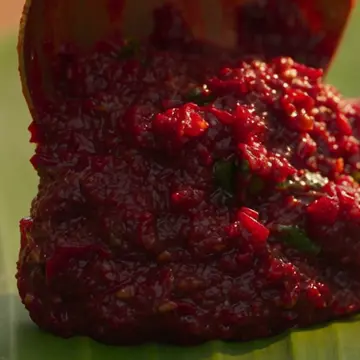
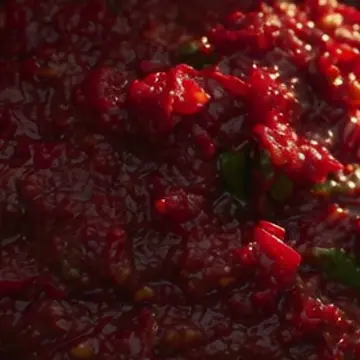
Remove banana leaf mentions; serve Build Your Bhojanam on a clay plate
Story step 3 becomes Bhojanam, headings/descriptions/alt text/meta no
longer mention the leaf, the leaf graphic is replaced with a clay
plate, and dish close-ups are cropped tighter.

Claude-Session: https://claude.ai/code/session_01HkawGkET8YDvbs46vsFSA1

diff --git a/src/components/Bhojanam.jsx b/src/components/Bhojanam.jsx
@@ -7,38 +7,25 @@ import { ArrowIcon } from './Icons';
 
 const steps = menu.bhojanam.steps.map((s) => ({ ...s, item: itemById[s.id] })).filter((s) => s.item);
 
-const LEAF = "M30 300 C 60 120, 240 52, 470 46 C 700 40, 900 70, 978 150 C 992 240, 990 330, 975 420 C 880 500, 690 522, 470 516 C 250 512, 70 470, 30 300 Z";
-
-function Leaf() {
+function Plate() {
   return (
-    <svg className="leaf-svg" viewBox="0 0 1000 560" aria-hidden="true" preserveAspectRatio="none">
+    <svg className="plate-svg" viewBox="0 0 600 600" aria-hidden="true">
       <defs>
-        <linearGradient id="leaf-g" x1="0" y1="0" x2="0" y2="1">
-          <stop offset="0" stopColor="oklch(0.6 0.15 140)" />
-          <stop offset="0.5" stopColor="oklch(0.52 0.14 142)" />
-          <stop offset="1" stopColor="oklch(0.46 0.12 145)" />
-        </linearGradient>
+        <radialGradient id="plate-rim" cx="0.45" cy="0.4" r="0.65">
+          <stop offset="0" stopColor="oklch(0.66 0.12 48)" />
+          <stop offset="1" stopColor="oklch(0.5 0.11 42)" />
+        </radialGradient>
+        <radialGradient id="plate-well" cx="0.45" cy="0.42" r="0.6">
+          <stop offset="0" stopColor="oklch(0.74 0.09 60)" />
+          <stop offset="1" stopColor="oklch(0.62 0.11 50)" />
+        </radialGradient>
       </defs>
-      <clipPath id="leaf-clip">
-        <path d={LEAF} />
-      </clipPath>
-      <path
-        d={LEAF}
-        fill="url(#leaf-g)"
-      />
-      <path d="M30 300 C 300 286, 650 282, 985 286" stroke="oklch(0.78 0.1 120)" strokeWidth="5" fill="none" strokeLinecap="round" />
-      <g stroke="oklch(0.6 0.12 138 / 0.55)" strokeWidth="1.4" fill="none" clipPath="url(#leaf-clip)">
-        {Array.from({ length: 26 }, (_, i) => {
-          const x = 80 + i * 35;
-          return (
-            <g key={i}>
-              <path d={`M${x} 290 C ${x + 20} 220, ${x + 40} 150, ${x + 52} ${70 + Math.abs(13 - i) * 2}`} />
-              <path d={`M${x} 292 C ${x + 20} 360, ${x + 40} 430, ${x + 52} ${500 - Math.abs(13 - i) * 2}`} />
-            </g>
-          );
-        })}
+      <circle cx="300" cy="300" r="292" fill="url(#plate-rim)" />
+      <circle cx="300" cy="300" r="250" fill="url(#plate-well)" />
+      <g fill="none" stroke="oklch(0.85 0.06 70 / 0.55)" strokeWidth="2" strokeLinecap="round">
+        <circle cx="300" cy="300" r="270" strokeDasharray="2 14" />
+        <circle cx="300" cy="300" r="250" />
       </g>
-      <path d="M978 150 C 960 160, 952 176, 960 196 L 975 186 Z" fill="var(--c-bg)" opacity="0.9" />
     </svg>
   );
 }
@@ -63,11 +50,11 @@ export default function Bhojanam() {
     const el = root.current;
     const q = gsap.utils.selector(el);
     if (prefersReducedMotion()) {
-      gsap.set(q('.leaf-dish, .bhojanam-cta'), { opacity: 1, scale: 1, y: 0 });
+      gsap.set(q('.plate-dish, .bhojanam-cta'), { opacity: 1, scale: 1, y: 0 });
       return;
     }
     const ctx = gsap.context(() => {
-      gsap.set(q('.leaf-dish'), { opacity: 0, y: -120, scale: 0.4, rotate: -25 });
+      gsap.set(q('.plate-dish'), { opacity: 0, y: -120, scale: 0.4, rotate: -25 });
       gsap.set(q('.bhojanam-cta'), { opacity: 0, y: 30 });
       const tl = gsap.timeline({
         scrollTrigger: {
@@ -75,16 +62,16 @@ export default function Bhojanam() {
           onUpdate: (self) => setActive(Math.min(steps.length - 1, Math.floor(self.progress * (steps.length + 0.6)) - 0)),
         },
       });
-      q('.leaf-dish').forEach((d, i) => {
+      q('.plate-dish').forEach((d, i) => {
         tl.to(d, { opacity: 1, y: 0, scale: 1, rotate: 0, duration: 1, ease: 'back.out(2.2)' }, i * 1.1);
       });
-      tl.to(q('.leaf-wrap')[0], { scale: 1.04, duration: 1, ease: 'sine.inOut' }, '+=0.1');
+      tl.to(q('.plate-wrap')[0], { scale: 1.04, duration: 1, ease: 'sine.inOut' }, '+=0.1');
       tl.to(q('.bhojanam-cta'), { opacity: 1, y: 0, duration: 0.8 }, '<');
     }, el);
     return () => ctx.revert();
   }, [mobile]);
 
-  // Mobile: swipe sequence drives which dishes are on the leaf.
+  // Mobile: swipe sequence drives which dishes are on the plate.
   useEffect(() => {
     if (!mobile) return;
     const cards = strip.current.querySelectorAll('.swipe-card');
@@ -98,7 +85,7 @@ export default function Bhojanam() {
 
   useEffect(() => {
     if (!mobile) return;
-    const dishes = root.current.querySelectorAll('.leaf-dish');
+    const dishes = root.current.querySelectorAll('.plate-dish');
     const reduced = prefersReducedMotion();
     dishes.forEach((d, i) => {
       const on = i <= active;
@@ -120,7 +107,7 @@ export default function Bhojanam() {
     <section id="bhojanam" ref={root} className="bhojanam" aria-labelledby="bhojanam-title">
       <div className="bhojanam-stage">
         <div className="wrap bhojanam-head">
-          <SectionHeading id="bhojanam-title" eyebrow="Build your bhojanam" telugu="భోజనం" teluguEn="the full meal" title={<>One leaf. <em>Everything</em> on it.</>} />
+          <SectionHeading id="bhojanam-title" eyebrow="Build your bhojanam" telugu="భోజనం" teluguEn="the full meal" title={<>One meal. <em>Everything</em> in it.</>} />
           <p className="bhojanam-count" aria-live="polite">
             <span className="count-num">{String(Math.max(0, active + 1)).padStart(2, '0')}</span>
             <span className="count-of">/ {String(steps.length).padStart(2, '0')}</span>
@@ -128,12 +115,12 @@ export default function Bhojanam() {
           </p>
         </div>
 
-        <div className="leaf-wrap">
-          <Leaf />
+        <div className="plate-wrap">
+          <Plate />
           {steps.map((s, i) => (
             <figure
               key={s.id}
-              className={`leaf-dish ${i === active ? 'is-current' : ''}`}
+              className={`plate-dish ${i === active ? 'is-current' : ''}`}
               style={{ left: `${s.x}%`, top: `${s.y}%`, width: `${s.size}%` }}
             >
               <img src={s.item.image} alt={s.item.name} width="360" height="360" loading="lazy" decoding="async" />
@@ -153,7 +140,7 @@ export default function Bhojanam() {
 
         {mobile && (
           <div className="swipe">
-            <div className="swipe-strip" ref={strip} tabIndex={0} aria-label="Swipe to add dishes to the leaf">
+            <div className="swipe-strip" ref={strip} tabIndex={0} aria-label="Swipe to add dishes to the plate">
               {steps.map((s, i) => (
                 <article key={s.id} className="swipe-card" data-index={i}>
                   <p className="swipe-step">{String(i + 1).padStart(2, '0')}</p>

diff --git a/src/styles/index.css b/src/styles/index.css
@@ -217,13 +217,13 @@ button { font: inherit; color: inherit; cursor: pointer; }
 .count-num { font-size: var(--fs-2xl); color: var(--c-primary); line-height: 1; }
 .count-of { color: var(--c-clay-ink); }
 .count-label { margin-left: 0.6rem; font-style: italic; font-size: var(--fs-lg); }
-.leaf-wrap { position: relative; width: min(1100px, calc(100% - 2 * var(--gutter))); aspect-ratio: 1000 / 560; margin-inline: auto; transform: rotate(-3deg); }
-.leaf-svg { position: absolute; inset: 0; width: 100%; height: 100%; filter: drop-shadow(0 18px 24px oklch(0.3 0.05 60 / 0.25)); }
-.leaf-dish { position: absolute; margin: 0; transform: translate(-50%, -50%); }
-.leaf-dish img { width: 100%; height: auto; aspect-ratio: 1; object-fit: cover; border-radius: 50%; box-shadow: 0 8px 18px oklch(0.25 0.05 60 / 0.35); }
-.leaf-dish figcaption { position: absolute; left: 50%; top: 100%; transform: translate(-50%, 0.3rem) rotate(3deg); white-space: nowrap; font-size: clamp(0.62rem, 0.5rem + 0.5vw, 0.85rem); font-weight: 700; background: var(--c-bg); color: var(--c-text-dark); padding: 0.15em 0.6em; border-radius: 999px; box-shadow: 0 2px 6px oklch(0.25 0.05 60 / 0.2); }
-.leaf-dish figcaption [lang='te'] { color: var(--c-primary); font-weight: 400; }
-.leaf-dish.is-current img { outline: 3px solid var(--c-accent); outline-offset: 3px; }
+.plate-wrap { position: relative; width: min(560px, calc(100% - 2 * var(--gutter))); aspect-ratio: 1; margin-inline: auto; transform: rotate(-3deg); }
+.plate-svg { position: absolute; inset: 0; width: 100%; height: 100%; filter: drop-shadow(0 18px 24px oklch(0.3 0.05 60 / 0.25)); }
+.plate-dish { position: absolute; margin: 0; transform: translate(-50%, -50%); }
+.plate-dish img { width: 100%; height: auto; aspect-ratio: 1; object-fit: cover; border-radius: 50%; box-shadow: 0 8px 18px oklch(0.25 0.05 60 / 0.35); }
+.plate-dish figcaption { position: absolute; left: 50%; top: 100%; transform: translate(-50%, 0.3rem) rotate(3deg); white-space: nowrap; font-size: clamp(0.62rem, 0.5rem + 0.5vw, 0.85rem); font-weight: 700; background: var(--c-bg); color: var(--c-text-dark); padding: 0.15em 0.6em; border-radius: 999px; box-shadow: 0 2px 6px oklch(0.25 0.05 60 / 0.2); }
+.plate-dish figcaption [lang='te'] { color: var(--c-primary); font-weight: 400; }
+.plate-dish.is-current img { outline: 3px solid var(--c-accent); outline-offset: 3px; }
 .bhojanam-cta { display: flex; flex-wrap: wrap; align-items: center; justify-content: center; gap: 1.25rem; margin-top: 2.5rem; padding-inline: var(--gutter); font-family: var(--ff-display); font-size: var(--fs-lg); font-style: italic; text-align: center; }
 .swipe { margin-top: 2.5rem; }
 .swipe-strip { display: grid; grid-auto-flow: column; grid-auto-columns: 82%; gap: 1rem; overflow-x: auto; scroll-snap-type: x mandatory; padding: 0.5rem var(--gutter) 1rem; scrollbar-width: none; overscroll-behavior-x: contain; }
@@ -236,15 +236,15 @@ button { font: inherit; color: inherit; cursor: pointer; }
 .swipe-nav button, .reviews-nav button { width: 48px; height: 48px; display: grid; place-items: center; border-radius: 50%; border: 1.5px solid currentColor; background: none; }
 .reviews-nav button:disabled { opacity: 0.35; cursor: default; }
 @media (max-width: 899.98px) {
-  .leaf-wrap { width: calc(100% - 0.5rem); transform: rotate(-2deg); }
-  .leaf-dish figcaption { opacity: 0; transition: opacity .3s; }
-  .leaf-dish.is-current figcaption { opacity: 1; z-index: 2; }
+  .plate-wrap { width: calc(100% - 2rem); transform: rotate(-2deg); }
+  .plate-dish figcaption { opacity: 0; transition: opacity .3s; }
+  .plate-dish.is-current figcaption { opacity: 1; z-index: 2; }
   .swipe-card { align-self: start; }
 }
 @media (min-width: 900px) {
   .hero-scroll-fade { padding-top: clamp(5.5rem, 12vh, 7.5rem); }
   .bhojanam-stage { height: 100vh; display: flex; flex-direction: column; justify-content: center; padding-block: 5rem 2rem; }
-  .leaf-wrap { width: min(1000px, 70vw, calc((100vh - 18rem) * 1.78)); }
+  .plate-wrap { width: min(600px, calc(100vh - 17rem)); }
 }
 
 /* ---------- Signature ---------- */

diff --git a/src/styles/tokens.css b/src/styles/tokens.css
@@ -3,13 +3,13 @@
    ---------------------------------------------------------------------
    Source of truth: logo.png. The logo file was NOT included with the
    brief, so this is the brief's documented FALLBACK palette
-   (turmeric, chilli/gongura red, banana-leaf green, clay, rice-cream,
+   (turmeric, chilli/gongura red, leaf green, clay, rice-cream,
    wood-smoke charcoal). When the real logo arrives, sample its colours
    and replace the hue/chroma values below, keeping the same roles.
 
    role        token              OKLCH                 approx hex
    primary     --c-primary        0.47 0.165 27         #a32321  gongura red
-   secondary   --c-secondary      0.47 0.110 145        #2c6a31  banana leaf
+   secondary   --c-secondary      0.47 0.110 145        #2c6a31  leaf green
    accent      --c-accent         0.80 0.150 80         #f0b135  turmeric
    clay        --c-clay           0.58 0.120 45         #b36139  terracotta
    background  --c-bg             0.965 0.018 82        #faf3e6  rice cream

diff --git a/src/components/Hero.jsx b/src/components/Hero.jsx
@@ -171,7 +171,7 @@ export default function Hero({ ready }) {
             preload="auto"
             poster={poster}
             onError={() => setVideoOk(false)}
-            aria-label="Film: a village courtyard kitchen, rice and gongura served on a banana leaf, a full Andhra bhojanam"
+            aria-label="Film: a village courtyard kitchen, rice, gongura, pappu and curry being served, a full Andhra bhojanam"
           >
             <source src={isMobile ? hero.videoMobile : hero.video} type="video/mp4" onError={() => setVideoOk(false)} />
           </video>
@@ -202,7 +202,7 @@ export default function Hero({ ready }) {
         <span className="hero-te-en">{hero.intro.english}</span>
       </p>
 
-      <ol className="hero-dishes" aria-label="On the leaf">
+      <ol className="hero-dishes" aria-label="In the meal">
         {hero.dishes.map((d) => (
           <li key={d.name} className="hero-dish">
             <span lang="te">{d.telugu}</span> {d.name}

diff --git a/index.html b/index.html
@@ -4,7 +4,7 @@
     <meta charset="UTF-8" />
     <meta name="viewport" content="width=device-width, initial-scale=1, viewport-fit=cover" />
     <title>Telugu Village Kitchen — Andhra village meals in Gachibowli, Hyderabad</title>
-    <meta name="description" content="Pure village flavours of Andhra, cooked the old way. Banana-leaf bhojanam, gongura pachadi, pappu with ghee — homely Telugu food on Old Mumbai Hwy, Gachibowli, Hyderabad." />
+    <meta name="description" content="Pure village flavours of Andhra, cooked the old way. Veg meals for ₹130, gongura pachadi, pappu with ghee — homely Telugu food on Old Mumbai Hwy, Gachibowli, Hyderabad." />
     <meta name="theme-color" content="#a32321" />
     <link rel="canonical" href="https://example.com/" />
     <link rel="icon" href="/favicon.svg" type="image/svg+xml" />

diff --git a/src/components/VegMeal.jsx b/src/components/VegMeal.jsx
@@ -22,7 +22,7 @@ export default function VegMeal() {
             eyebrow="What we serve"
             telugu={item.telugu}
             teluguEn="veg meals"
-            title={<>{item.name}, <em>on a banana leaf.</em></>}
+            title={<>{item.name}, <em>served hot.</em></>}
           />
 
           <p className="vegmeal-price" aria-label={`${item.name} costs ${menu.currency}${item.price}`}>

diff --git a/src/components/Story.jsx b/src/components/Story.jsx
@@ -3,7 +3,7 @@ import { gsap } from '../lib/motion';
 import { site } from '../lib/content';
 import SectionHeading from './SectionHeading';
 
-/** Fire → Clay Pot → Banana Leaf. Pinned on desktop; stacked reveals on mobile. */
+/** Fire → Clay Pot → Bhojanam. Pinned on desktop; stacked reveals on mobile. */
 export default function Story() {
   const root = useRef(null);
 

diff --git a/README.md b/README.md
@@ -94,7 +94,7 @@ The site doesn't have a full menu. The **What we serve** section (`#menu`, `src/
 - To change the price or wording, edit the `veg-meals` item in `src/data/menu.json` (`price`, `name`, `telugu`, `description`).
 - To change the photo, the review quote or the item it points to, edit `vegMeal` in the same file.
 
-The other items in `menu.json` are dishes only, with no prices. They feed the Signature Dishes scroller (`"signature": true`), the marquee, and Build-Your-Bhojanam (`bhojanam.steps` sets the order and where each dish sits on the leaf, as % of the leaf). A dish only shows a price when its `price` is a number.
+The other items in `menu.json` are dishes only, with no prices. They feed the Signature Dishes scroller (`"signature": true`), the marquee, and Build-Your-Bhojanam (`bhojanam.steps` sets the order and where each dish sits on the plate, as % of the plate). A dish only shows a price when its `price` is a number.
 
 ## Edit contact details
 
